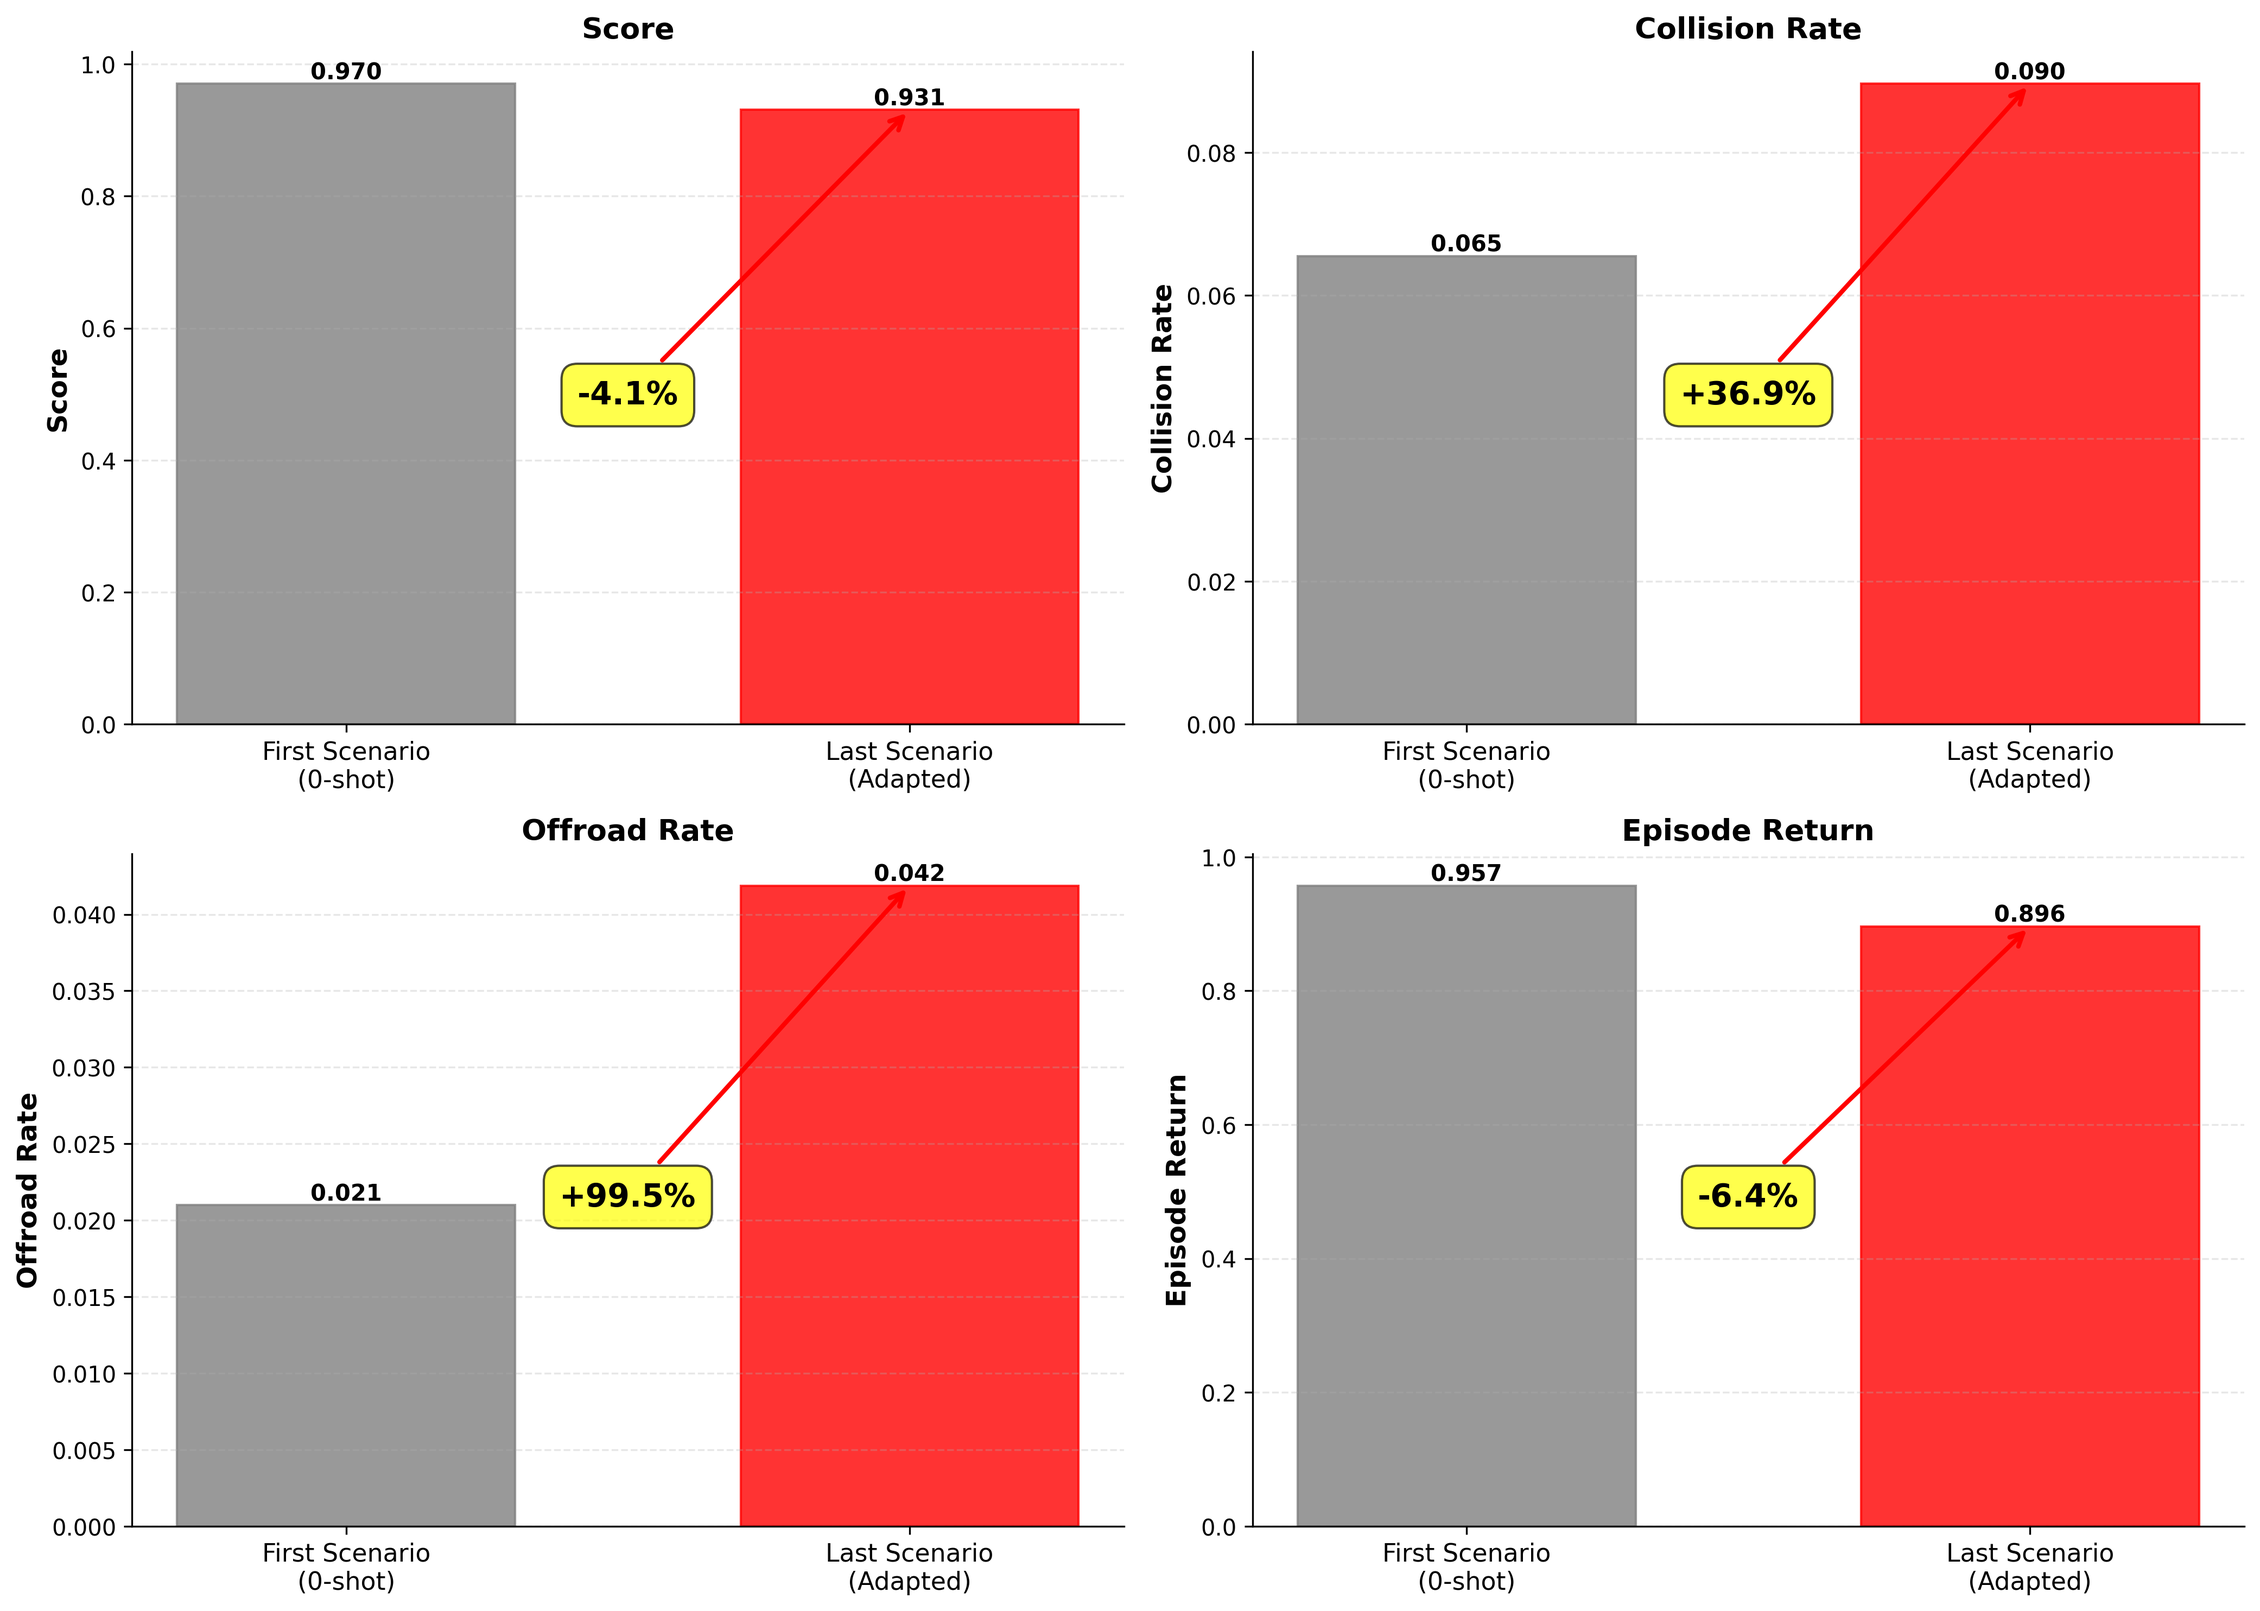
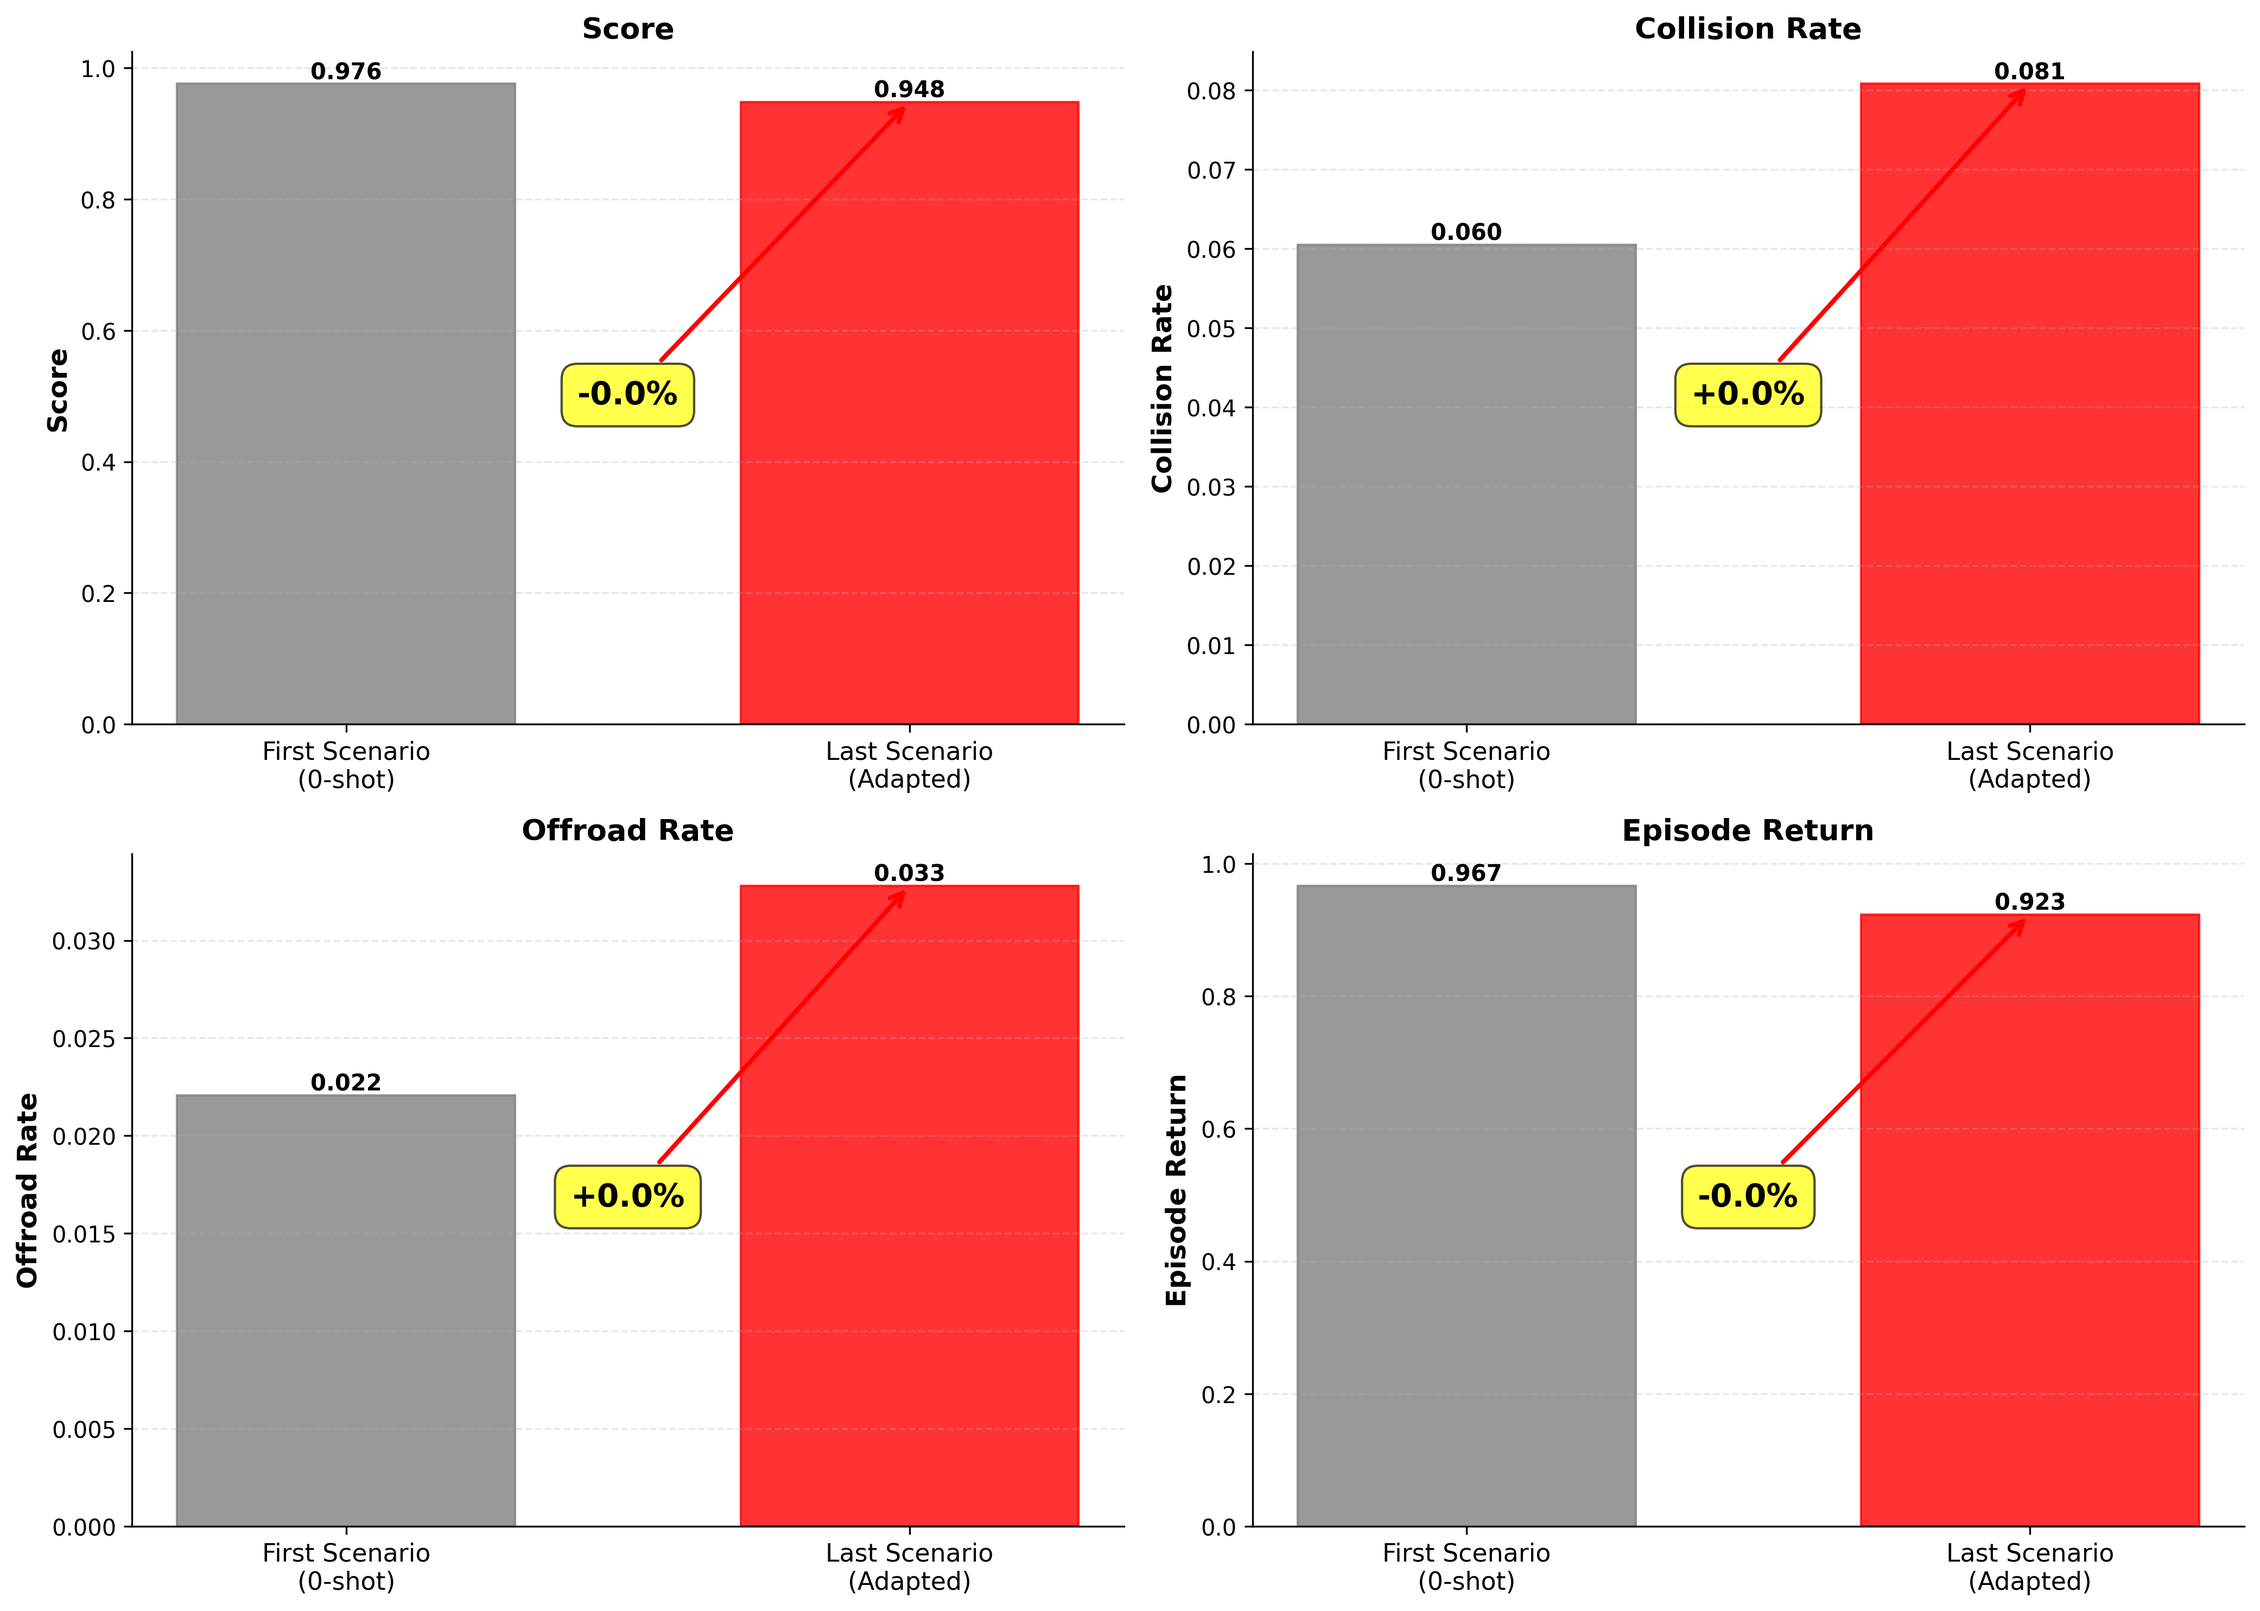
resample conditioning only at the end

diff --git a/pufferlib/ocean/drive/drive.h b/pufferlib/ocean/drive/drive.h
@@ -2229,19 +2229,20 @@ void c_reset(Drive *env) {
     env->timestep = env->init_steps;
     set_start_position(env);
 
-    // Initialize all conditioning weights even when no conditioning (lb=ub)
-    for (int i = 0; i < env->active_agent_count; i++) {
-        env->collision_weights[i] = ((float)rand() / RAND_MAX) * (env->collision_weight_ub - env->collision_weight_lb) +
-                                    env->collision_weight_lb;
-        env->offroad_weights[i] =
-            ((float)rand() / RAND_MAX) * (env->offroad_weight_ub - env->offroad_weight_lb) + env->offroad_weight_lb;
-        env->goal_weights[i] =
-            ((float)rand() / RAND_MAX) * (env->goal_weight_ub - env->goal_weight_lb) + env->goal_weight_lb;
-        env->entropy_weights[i] =
-            ((float)rand() / RAND_MAX) * (env->entropy_weight_ub - env->entropy_weight_lb) + env->entropy_weight_lb;
-        env->discount_weights[i] =
-            ((float)rand() / RAND_MAX) * (env->discount_weight_ub - env->discount_weight_lb) + env->discount_weight_lb;
-    }
+    // Don't resample conditioning weights between scenarios - keep them the same
+    // so the agent can adapt to the same task across scenarios
+    // for (int i = 0; i < env->active_agent_count; i++) {
+    //     env->collision_weights[i] = ((float)rand() / RAND_MAX) * (env->collision_weight_ub - env->collision_weight_lb) +
+    //                                 env->collision_weight_lb;
+    //     env->offroad_weights[i] =
+    //         ((float)rand() / RAND_MAX) * (env->offroad_weight_ub - env->offroad_weight_lb) + env->offroad_weight_lb;
+    //     env->goal_weights[i] =
+    //         ((float)rand() / RAND_MAX) * (env->goal_weight_ub - env->goal_weight_lb) + env->goal_weight_lb;
+    //     env->entropy_weights[i] =
+    //         ((float)rand() / RAND_MAX) * (env->entropy_weight_ub - env->entropy_weight_lb) + env->entropy_weight_lb;
+    //     env->discount_weights[i] =
+    //         ((float)rand() / RAND_MAX) * (env->discount_weight_ub - env->discount_weight_lb) + env->discount_weight_lb;
+    // }
 
     for (int x = 0; x < env->active_agent_count; x++) {
         env->logs[x] = (Log){0};
